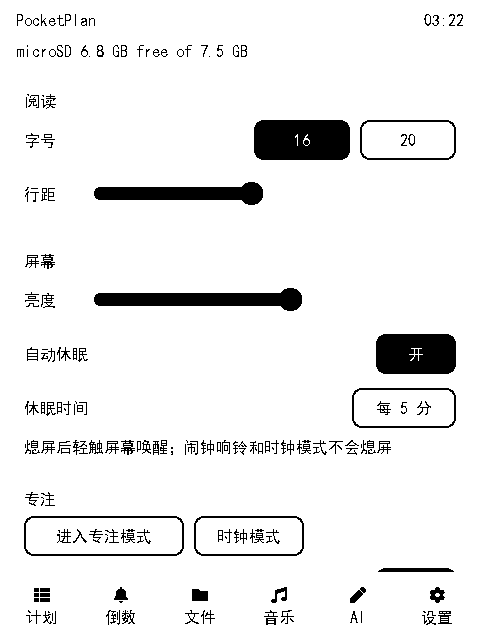
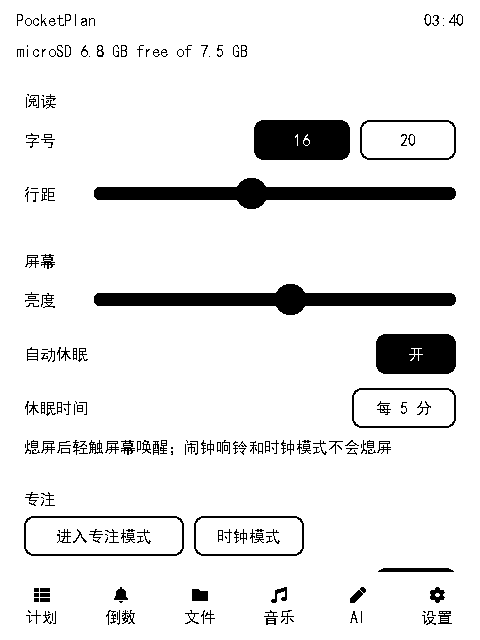
fix(settings): pin slider colours to pure black; web range accent; README screenshot gallery

Changed region(s): [[0.5625, 0.4375, 0.9688, 0.5], [0.5, 0.2812, 0.9688, 0.3438], [0.9375, 0.0312, 0.9688, 0.0625]]

diff --git a/pocketplan/main/www/index.html b/pocketplan/main/www/index.html
@@ -34,6 +34,10 @@ button.ghost{background:#e8f0fe;color:var(--blue);border:0;border-radius:10px;pa
 button.danger{background:#fce8e6;color:#c5221f;border:0;border-radius:10px;padding:11px 16px;font-size:14px}
 input,select,textarea{width:100%;border:1px solid var(--line);border-radius:10px;padding:10px 12px;font-size:15px;background:#fff;font-family:inherit}
 label{display:block;font-size:12px;color:var(--dim);margin:10px 0 4px}
+/* The browser's default range accent is Material indigo (reads as purple on
+ * Android Chrome); pin it to black so the sliders match the monochrome device
+ * UI instead of looking like a leftover default. */
+input[type=range]{padding:0;border:0;background:transparent;accent-color:#000;height:32px}
 .row2{display:flex;gap:10px}.row2>*{flex:1}
 .days{display:flex;gap:6px;flex-wrap:wrap;margin-top:4px}
 .days label{display:flex;align-items:center;gap:4px;font-size:13px;color:var(--text);margin:0;border:1px solid var(--line);padding:6px 9px;border-radius:8px}

diff --git a/pocketplan/main/page_settings.c b/pocketplan/main/page_settings.c
@@ -30,6 +30,8 @@
 #define C_CHIP 0x000000
 #define C_EDGE 0x000000
 
+static const char *TAG = "settings";
+
 static lv_obj_t *s_root;
 static lv_obj_t *s_font_large;
 static lv_obj_t *s_font_small;
@@ -46,6 +48,34 @@ static lv_obj_t *s_dark_chip;
 static lv_obj_t *s_cache_chip;
 static lv_obj_t *s_sleep_chip;
 static lv_obj_t *s_sleep_min_chip;
+
+/* The theme hands the slider its primary colour, which arrives on this RGB565
+ * panel as a saturated purple instead of the black/white palette the rest of
+ * the UI uses. Rather than trusting the theme, pin every slider part: white
+ * track with a black outline, solid black filled part, solid black knob.
+ * A faded grey track is useless here - grey simply disappears on this panel. */
+static void style_slider(lv_obj_t *s)
+{
+    ESP_LOGI(TAG, "slider theme colour before override: ind=#%06lx knob=#%06lx",
+             (unsigned long)lv_color_to_u32(lv_obj_get_style_bg_color(s, LV_PART_INDICATOR)),
+             (unsigned long)lv_color_to_u32(lv_obj_get_style_bg_color(s, LV_PART_KNOB)));
+
+    lv_obj_set_style_bg_color(s, lv_color_hex(C_CHIP), LV_PART_MAIN);
+    lv_obj_set_style_bg_opa(s, LV_OPA_COVER, LV_PART_MAIN);
+    lv_obj_set_style_border_color(s, lv_color_hex(C_EDGE), LV_PART_MAIN);
+    lv_obj_set_style_border_width(s, 2, LV_PART_MAIN);
+    lv_obj_set_style_radius(s, LV_RADIUS_CIRCLE, LV_PART_MAIN);
+
+    lv_obj_set_style_bg_color(s, lv_color_hex(C_CHIP), LV_PART_INDICATOR);
+    lv_obj_set_style_bg_opa(s, LV_OPA_COVER, LV_PART_INDICATOR);
+    lv_obj_set_style_radius(s, LV_RADIUS_CIRCLE, LV_PART_INDICATOR);
+
+    lv_obj_set_style_bg_color(s, lv_color_hex(C_CHIP), LV_PART_KNOB);
+    lv_obj_set_style_bg_opa(s, LV_OPA_COVER, LV_PART_KNOB);
+    lv_obj_set_style_border_width(s, 0, LV_PART_KNOB);
+    lv_obj_set_style_shadow_width(s, 0, LV_PART_KNOB);
+    lv_obj_set_style_pad_all(s, 9, LV_PART_KNOB);
+}
 
 static lv_obj_t *add_section(const char *title)
 {
@@ -390,6 +420,7 @@ void pp_settings_create(lv_obj_t *parent)
     lv_obj_set_width(ll, 60);
     s_line_space = lv_slider_create(row);
     lv_obj_set_flex_grow(s_line_space, 1);
+    style_slider(s_line_space);
     lv_slider_set_range(s_line_space, 0, 16);
     lv_slider_set_value(s_line_space, pp_config()->line_space, LV_ANIM_OFF);
     lv_obj_add_event_cb(s_line_space, line_space_changed, LV_EVENT_ALL, NULL);
@@ -413,6 +444,7 @@ void pp_settings_create(lv_obj_t *parent)
     lv_obj_set_width(bl, 60);
     s_brightness = lv_slider_create(row);
     lv_obj_set_flex_grow(s_brightness, 1);
+    style_slider(s_brightness);
     lv_slider_set_range(s_brightness, 10, 100);
     lv_slider_set_value(s_brightness, pp_config()->brightness, LV_ANIM_OFF);
     lv_obj_add_event_cb(s_brightness, brightness_changed, LV_EVENT_ALL, NULL);

diff --git a/README.md b/README.md
@@ -27,7 +27,15 @@
 | WebDAV | 同一个 80 端口上提供 WebDAV，Windows 资源管理器 / macOS Finder 可以直接挂载读写 TF 卡 |
 | 配网 | 首次开机是热点 `PocketPlan-XXXX`（密码 `pocketplan`），网页里填 SSID/密码即可连家里的网；长按 BOOT 3 秒清除凭据 |
 
-界面截图都在 [`pocketplan/docs/screenshots`](pocketplan/docs/screenshots)（01–19）。
+界面截图都在 [`pocketplan/docs/screenshots`](pocketplan/docs/screenshots)（01–19），下面是其中 9 张真机照片：
+
+| 计划打卡 | 阅读器 | 倒数日 + 闹钟 |
+|---|---|---|
+| ![计划打卡](pocketplan/docs/screenshots/15-plans-checked-circle.png) | ![阅读器](pocketplan/docs/screenshots/06-reader-16.png) | ![倒数日](pocketplan/docs/screenshots/11-countdown-alarms.png) |
+| **音乐列表** | **AI + 键盘** | **设置** |
+| ![音乐](pocketplan/docs/screenshots/16-music-library.png) | ![AI](pocketplan/docs/screenshots/12-ai-keyboard.png) | ![设置](pocketplan/docs/screenshots/17-settings-modes.png) |
+| **时钟模式（暗）** | **闹钟响铃** | **专注模式** |
+| ![时钟模式](pocketplan/docs/screenshots/18-clock-mode-landscape-dark.png) | ![闹钟](pocketplan/docs/screenshots/13-alarm-ring.png) | ![专注](pocketplan/docs/screenshots/09-focus-landscape.png) |
 
 ## 硬件
 
